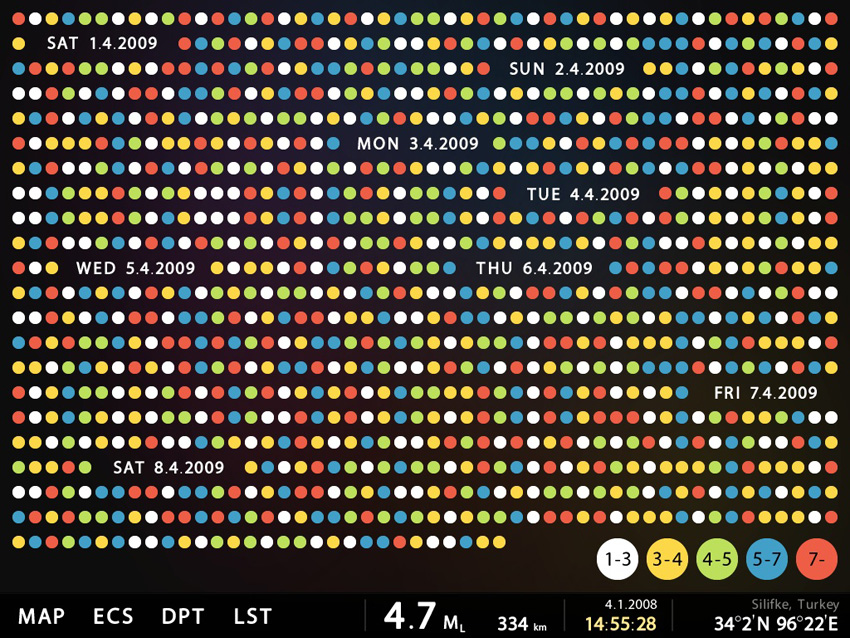
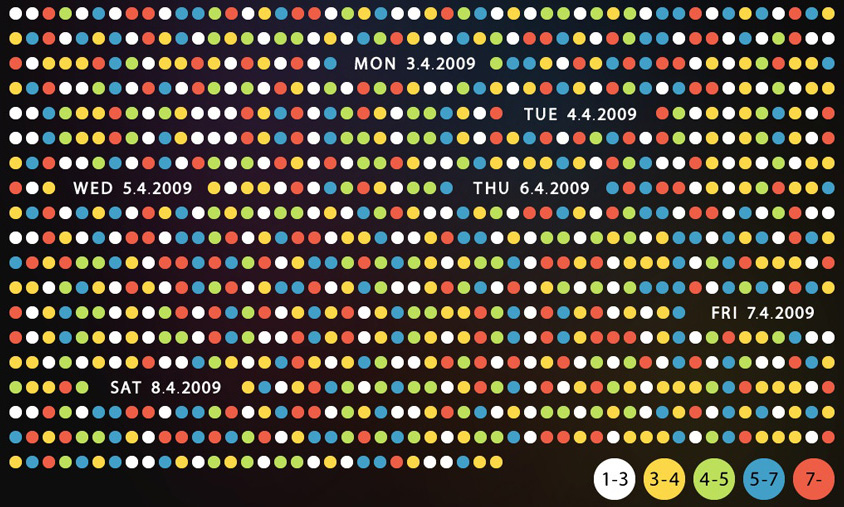
new seismi pics added

diff --git a/v3_website/index.html b/v3_website/index.html
@@ -44,9 +44,6 @@
         <div class="twelvecol slogan">
             <canvas id="landing-canvas"></canvas>
             <h1>We design and build unforgettable <a class="hilight" href="#interactivity">interactive experiences</a> that blend <a class="hilight" href="#surfaces">visually rich art</a> with <a class="hilight" href="#infovis">enlightening information</a>.</h1>
-            <!-- <h2>
-                &mdash;
-            </h2>-->
             <h2>We are the masters of creative code</h2>
             <p>[HORSIE + R = UNICORN MAGIC!]</p>
         </div>
@@ -54,14 +51,17 @@
     <div class="row shortinfo">
         <div class="fourcol">
             <h2>Multiple surfaces</h2>
+            <img src="images/circ-multsurf.png" alt="Multiple surfaces" />
             <p>Break out of the box with the use of innovative surfaces &mdash; combinations of displays and projectors presenting captivating animation that reacts to the audience.</p>
         </div>
         <div class="fourcol">
             <h2>Interactivity</h2>
+            <img src="images/circ-interc.png" alt="Interactivity" />
             <p>Engage your audience on a completely new level with new forms of interaction enabled through experimental sensors and computer vision.</p>
         </div>
         <div class="fourcol last">
             <h2>Information Visualization</h2>
+            <img src="images/circ-infvis.png" alt="Information Visualization" />
             <p>Discover the hidden patterns in your data through beautifully flowing interactive visualizations. Gain insight into your business while impressing your customers and partners.</p>
         </div>
     </div>
@@ -79,17 +79,15 @@
             <p>Combine an <b>unlimited</b> number of screens and projections to give your content the visibility it deserves.</p>
             <p>Serve <b>any content</b> from videos to images to dynamic text and interactive visuals.</p>
             <p>Capture the attention of your audience and lift central parts of your content up by <b>synchronously</b> playing them on all the screens.</p>
-            <p><a class="colorbox-video" href="http://player.vimeo.com/video/33879563?autoplay=1">Watch the video</a></p>
+            <p class="colorbox-video"><a href="http://player.vimeo.com/video/33879563?autoplay=1">Watch the video</a></p>
         </div>
-        <div class="slider-wrapper theme-default ninecol last">
+        <div class="ninecol last slider-wrapper theme-default">
             <div class="ribbon"></div>
             <div id="surfaces-carousel" class="nivoSlider">
                 <img src="images/contentflow-1.jpg" alt="" />
                 <img src="images/contentflow-2.jpg" alt="" />
                 <img src="images/contentflow-3.jpg" alt="" />
-                <a class="nivo-video-link" href="http://player.vimeo.com/video/33879563?autoplay=1">
-                    <img src="images/content-flow-screenie.png" alt="Watch the video" />
-                </a>
+                <!-- <img src="images/content-flow-screenie.png" alt="Watch the video on vimeo" title="#contentflow-video-htmlcaption" /> -->
             </div>
             <!-- <div id="contentflow-video-htmlcaption" class="nivo-html-caption">
                 <span data-href="http://player.vimeo.com/video/33879563?autoplay=1">Watch the video</b>
@@ -105,31 +103,29 @@
         <div class="twelvecol">
             <h1>Interactivity</h1>
         </div>
-	</div>
+    </div>
     <div class="row">
-        <div class="slider-wrapper theme-default ninecol">
+        <div class="threecol">
+            <p>Create much more memorable and deeper experiences through natural ways of interaction.</p>
+            <p class="mdash">&mdash;</p>
+            <h4>Example Project: Time Flow </h4>
+            <p>A beautiful projection displays temporal information interactively.</p>
+            <p>Participants control the display of information by moving within a space, each step taking them forward in time.</p>
+            <p>Include images and video to create depth and provide context.</p>
+            <p class="colorbox-video"><a href="http://player.vimeo.com/video/33879089?autoplay=1">Watch the video</a></p>
+        </div>
+        <div class="ninecol last slider-wrapper theme-default">
             <div class="ribbon"></div>
             <div id="interactivity-carousel" class="nivoSlider">
                 <img src="images/timeflow-1.jpg" alt="" />
                 <img src="images/timeflow-2.jpg" alt="" />
                 <img src="images/timeflow-3.jpg" alt="" />
-                <a class="nivo-video-link" href="http://player.vimeo.com/video/33879089?autoplay=1">
-                    <img src="images/time-flow-screenie.png" alt="Watch the video" />
-                </a>
+                <!-- <img id="timeflow-screenie" src="images/time-flow-screenie.png" alt="Watch the video on vimeo" title="#timeflow-video-htmlcaption" /> -->
             </div>
             <!-- <div id="timeflow-video-htmlcaption" class="nivo-html-caption">
                 <span data-href="http://player.vimeo.com/video/33879089?autoplay=1">Watch the video</b>
                 (<a href="http://http://vimeo.com/33879089">vimeo link</a>)
             </div> -->
-        </div>
-        <div class="threecol last">
-            <p>Create much more memorable and deeper experiences through natural ways of interaction.</p>
-            <p>&mdash;</p>
-            <h4>Example Project: Time Flow </h4>
-            <p>A beautiful projection displays temporal information interactively.</p>
-            <p>Participants control the display of information by moving within a space, each step taking them forward in time.</p>
-            <p>Include images and video to create depth and provide context.</p>
-            <p><a class="colorbox-video" href="http://player.vimeo.com/video/33879089?autoplay=1">Watch the video</a></p>
         </div>
     </div>
 </div>
@@ -146,18 +142,19 @@
             <p>Gain new insight into your data through real-time visualizations.</p>
             <p>Create ever-lasting impressions in your clientele and partner network.</p> 
             <p>Add interaction to dive deeper into the information.</p>
-            <p>&mdash;</p>
+            <p class="mdash">&mdash;</p>
             <h4>Example Project: Seismi </h4>
             <p>Several different views provide continuously updating information about the earthquakes around the globe.</p>
             <p><a href="http://www.seismi.org">Experience it online</a></p>
         </div>
-        <div class="slider-wrapper theme-default ninecol last">
+        <div class="ninecol last slider-wrapper theme-default">
             <div class="ribbon"></div>
             <div id="infovis-carousel" class="nivoSlider">
-                <img src="images/seismi-1.jpg" alt="" />
-                <img src="images/seismi-2.jpg" alt="" />
-                <img src="images/seismi-3.jpg" alt="" />
-                <img src="images/seismi-4.jpg" alt="" />
+                <img src="images/seismi-0.png" alt="" />
+                <img src="images/seismi-1.png" alt="" />
+                <img src="images/seismi-2.png" alt="" />
+                <img src="images/seismi-3.png" alt="" />
+                <img src="images/seismi-4.png" alt="" />
             </div>
         </div>
     </div>
@@ -170,7 +167,7 @@
             <h2>We are</h2>
         </div>
     </div>
-    <div class="row">
+    <!--<div class="row">
         <div class="threecol">
             <img src="images/reuna-logo.png" alt="REUNA BUREAU" />
             <h3>REUNA</h3>
@@ -195,7 +192,36 @@
             <img src="images/silhouette_niko.png" alt="Niko" />
             <h3>Niko Knappe</h3>
             <p>niko@reunabureau.com<br />
-                +358 50 4418182</p>
+                +358 50 4418182</p> 
+        </div>
+    </div>-->
+    <div class="row">
+        <div class="threecol">
+            <h3>REUNA</h3>
+            <p>We're always interested in wacky business proposals and meeting with great people.</p>
+            <p>Visit us on <a href="http://twitter.com/reunabureau">Twitter</a>, <a href="#">Facebook</a> or <a href="#">LinkedIn</a> or just directly contact us by mail or phone.</p>
+            <p><a href="mailto:info@reunabureau.com">info@reunabureau.com</a><br />
+                +358 40 722 5101</p>
+        </div>
+        <div class="sixcol" style="text-align:center;">
+            <img src="images/aboutcontact-1.png" alt="Reuna" />
+        </div>
+        <div class="threecol last">
+            <div class="person">
+                <h3>Lauri Kainulainen</h3>
+                <p><a href="mailto:lauri@reunabureau.com">lauri@reunabureau.com</a><br />
+                    +358 40 722 5101</p>
+            </div>
+            <div class="person">
+                <h3>G&ouml;kce Taskan</h3>
+                <p><a href="mailto:gokce@reunabureau.com">gokce@reunabureau.com</a><br />
+                    +358 44 556663</p>
+            </div>
+            <div class="person">
+                <h3>Niko Knappe</h3>
+                <p><a href="mailto:niko@reunabureau.com">niko@reunabureau.com</a><br />
+                    +358 50 4418182</p>
+            </div>
         </div>
     </div>
 </div>
@@ -205,6 +231,7 @@
 <script type="text/javascript" src="js/libs/jquery.colorbox-min.js"></script>
 <script type="text/javascript">
 $(window).load(function() {
+    $('#surfaces-carousel,#interactivity-carousel,#infovis-carousel').nivoSlider(
         /*
         // nivo slider is quite unflexible with event handlers. it also prevents attaching event handlers
         // to the html elements inside its captions. travelling and finding attr value like below is possible, 
@@ -221,14 +248,7 @@ $(window).load(function() {
             }
         }
         */
-    $('#surfaces-carousel,#interactivity-carousel,#infovis-carousel').nivoSlider({
-                                                                        pauseTime: 3000,
-                                                                        slices: 7, // For slice animations
-                                                                        boxCols: 4, // For box animations
-                                                                        boxRows: 2, // For box animations
-                                                                    });
-    
-    $('a.nivo-video-link').colorbox({transition: "fade", iframe: true, width: "90%", height: "90%"});
+    );
     
     $('a.colorbox-video').colorbox({transition: "fade", iframe: true, width: "90%", height: "90%"});
         
@@ -261,13 +281,20 @@ $(window).load(function() {
             if(n - lastDrawTime > 100) {
                 lastDrawTime = n;
                 
+                /*
+                reuna.canvas.setColor(255, 255, 255, 0.8);
+                reuna.canvas.rect(  0,
+                                    0, 
+                                    reuna.canvas.getWidth(),
+                                    reuna.canvas.getHeight());
+                */
                 reuna.canvas.setColor(0, 0, 0, 1);
                 for(var i = 0; i < clickPlaces.length; i++) {
                     //reuna.canvas.setColor(255 * reuna.canvas.random(),
                     //        255 * reuna.canvas.random(),
                     //        255 * reuna.canvas.random());
                     // reuna.canvas.setColor(255, 255, 255, 1.0);
-                    // TODO: add into lib somehow...
+                    /* TODO: add into lib somehow... */
                     reuna.canvas._ctx.clearRect(  Math.round(clickPlaces[i][0]) * w + w/2,
                                         Math.round(clickPlaces[i][1]) * h + h/2,
                                         w,

diff --git a/v3_website/css/styles.css b/v3_website/css/styles.css
@@ -8,38 +8,45 @@
     font-weight:normal; font-style:normal;
 }
 
-body { background:#fff; color:#222; font:normal normal 15px/1.4 'AWConquerorSansLight', 'Lucida Grande', Arial, sans-serif;}
+body {background:#fff url('../images/bg-1.png'); color:#444; font:normal normal 13px/1.7 Courier, Monaco, Helvetica, Arial, Verdana, sans-serif ;}
 
-a {text-decoration:none; color:#8ca;}
-a:hover {color:#9db;}
+a {text-decoration:none; color:#1779bf;}
+a:hover {color:#2e87c4;}
 a.page-link {display:inline-block; height:3em; clear:both;}
-a.hilight {color:#8ca;}
-a.colorbox-video { text-transform: uppercase; background: #eee; padding: 2px 4px;}
+a.hilight {color:#1779bf;}
+.colorbox-video a {text-transform:uppercase; background:#000; color:#fff; padding:4px 8px;}
+p.colorbox-video {margin-top:20px;}
 
 h1, h2, h3, h4 {font:normal normal 15px/2 'AWConquerorSansLight', 'Lucida Grande'; text-transform:uppercase; letter-spacing:1.5px;}
-h1 {font-size:21px; line-height:3.5;}
-h2 {font-size:18px;}
-h3 {font-size:15px;}
+h1 {font-size:24px; line-height:3.5;}
+h2 {font-size:20px;}
+h3 {font-size:16px; line-height:1.8;}
+h4 {font-size:16px; line-height:1.2; letter-spacing:1px; margin:0 0 10px 0;}
 p {margin-bottom:10px;}
+p.mdash {color:#aaa;}
 
 canvas#landing-canvas {height:400px; width:100%; position:absolute; top:80px; left:0; z-index:10; background:none;}
 
 /* top nav */
 .navigation {background:#fff; background:rgba(255,255,255,0.98); font:normal normal 13px/1 'AWConquerorSansLight'; text-transform:uppercase; letter-spacing:1.2px; position:fixed; z-index:1000; top:0; left:0; width:100%;}
-.navigation img#logo {padding:13px 0 0 0;}
+.navigation img#logo {padding:13px 0 0 0;margin:0;}
 nav ul {padding:25px 0;}
 nav ul li {display:inline; list-style-type:circle; color:#06c; padding-right:40px;}
 nav ul li a {text-decoration:none; color:#222;}
 
 /* pages */
-div.landing-page {margin:4em 0;}
-div.contact-page {min-height:20em; background:#f2f2f2; padding-bottom:15em;}
+div.landing-page {padding:40px 0;}
+div.contact-page {background:#f0f0f0; padding-bottom:60px;}
 div.contact-page h2 {text-align:center;margin:60px 0;}
-div.slogan {margin:60px 0; text-align:center; letter-spacing:2px;}
+div.slogan {margin:60px 0; text-align:center; letter-spacing:2px; }
+div.shortinfo div {text-align:left;}
+div.shortinfo h2 {}
+div.shortinfo div img {margin-bottom:10px;display:none;}
 div.slogan h1 {font-size:26px; line-height:2; padding-right:130px;padding-left:130px;}
 div.slogan h2 {font-size:22px; line-height:3; color:#ccc;}
+div.person {margin-bottom:30px;}
 
-div.nivo-caption { text-align: center; text-transform: uppercase; font:normal normal 2em/1.4 'AWConquerorSansLight', 'Lucida Grande', Arial, sans-serif; }
+div.nivo-caption { text-align:center; text-transform:uppercase; font:normal normal 2em/1.4 'AWConquerorSansLight', 'Lucida Grande', Arial, sans-serif; }
 
 /* ============================= */
 /* ! Layout for mobile version   */
@@ -55,10 +62,5 @@ body { }
 /* ========================================== */
 
 @media only screen and (-webkit-min-device-pixel-ratio: 2) { 
-
-/*	.logo {
-		background: url(logo2x.jpg) no-repeat;
-		background-size: 212px 303px;
-	}*/
 
 }

diff --git a/v3_website/css/nivo-default-theme/default.css b/v3_website/css/nivo-default-theme/default.css
@@ -9,60 +9,59 @@ Author URI: http://dev7studios.com
 */
 
 .theme-default .nivoSlider {
-	position:relative;
-	background:#fff url(loading.gif) no-repeat 50% 50%;
-	margin-top:1px;
+    position:relative;
+    background:#fff url(loading.gif) no-repeat 50% 50%;
+    margin-top:1px;
     margin-bottom:50px;
-    border:1px solid #fff;
     -webkit-box-shadow: 0px 2px 0px 0px #8a8a8a;
     -moz-box-shadow: 0px 2px 0px 0px #8a8a8a;
     box-shadow: 0px 0px 2px 0px #8a8a8a;
 }
 .theme-default .nivoSlider img {
-	position:absolute;
-	top:0px;
-	left:0px;
-	display:none;
+    position:absolute;
+    top:0px;
+    left:0px;
+    display:none;
 }
 .theme-default .nivoSlider a {
-	border:0;
-	display:block;
+    border:0;
+    display:block;
 }
 
 .theme-default .nivo-controlNav {
-	position:absolute;
-	left:50%;
-	bottom:-42px;
+    position:absolute;
+    left:50%;
+    bottom:-32px;
     margin-left:-40px; /* Tweak this to center bullets */
 }
 .theme-default .nivo-controlNav a {
-	display:block;
-	width:22px;
-	height:22px;
-	background:url(bullets.png) no-repeat;
-	text-indent:-9999px;
-	border:0;
-	margin-right:3px;
-	float:left;
+    display:block;
+    width:22px;
+    height:22px;
+    background:url(bullets.png) no-repeat;
+    text-indent:-9999px;
+    border:0;
+    margin-right:3px;
+    float:left;
 }
 .theme-default .nivo-controlNav a.active {
-	background-position:0 -22px;
+    background-position:0 -22px;
 }
 
 .theme-default .nivo-directionNav a {
-	display:block;
-	width:30px;
-	height:30px;
-	background:url(arrows.png) no-repeat;
-	text-indent:-9999px;
-	border:0;
+    display:block;
+    width:30px;
+    height:30px;
+    background:url(arrows.png) no-repeat;
+    text-indent:-9999px;
+    border:0;
 }
 .theme-default a.nivo-nextNav {
-	background-position:-30px 0;
-	right:15px;
+    background-position:-30px 0;
+    right:15px;
 }
 .theme-default a.nivo-prevNav {
-	left:15px;
+    left:15px;
 }
 
 .theme-default .nivo-caption {
